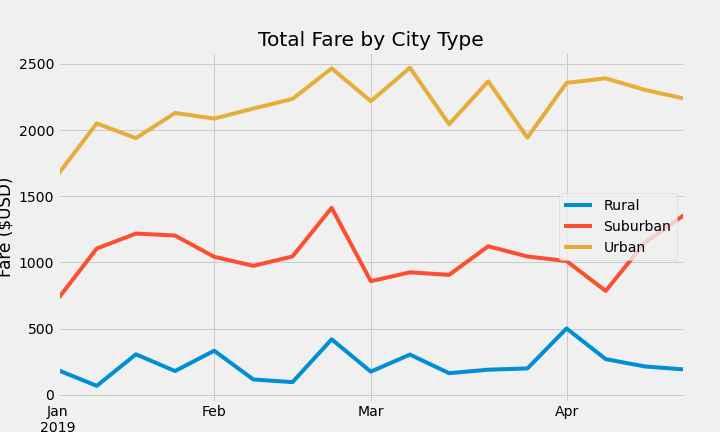
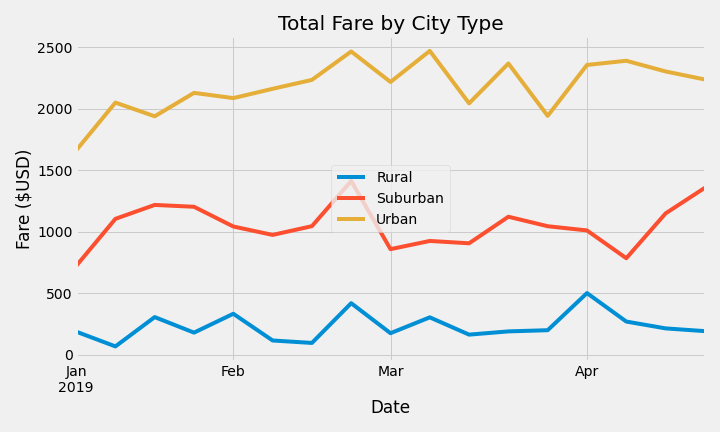
updated readme and images changed size

diff --git a/README.md b/README.md
@@ -1,15 +1,17 @@
 # PyBer_Analysis
 
 ## Project Overview
-The project was to examine PyBer ride-sahring data and break the analysis down by city type.  A Pandas DataFrame was created and then graphs utilizing Matplotlib functionality were employed to provide displays of the differences of the ride sharing data by city type and week fares.  Insights into these trends are then used to provide guidance for decisions by PyBer leadership.
+The purpose of this project is to examine PyBer ride-sharing data and break the analysis down by city type.  A Pandas DataFrame was created and then a summary line chart utilizing Matplotlib functionality is employed to provide displays of the differences of the ride sharing data by city type and week fares.  Insights into these trends are then used to provide guidance for decisions by PyBer leadership.
 
 ### Results
+
+#### Fare summary by city type
+PyBer weekly fares vary significantly depending on whether the city type is rural, suburban, or urban.  As is diplayed in figure 1, urban cities **(gold line)** generate more total weekly fares than suburban and rural combined.  Rural cities generate the least amount of fare on a weekly basis rarely exceeding $500.  Suburban cities tend to be about double the rural cities in weekly fares, but approximately half of the urban cites.
 Figure 1 ![PyBer Fare Summary](analysis/PyBer_fare_summary.png)
-
+#### Ride and summary table
+If we examine the table in figure 2, we notice that the average fare for the rural cities is the largest, while the smallest average fare per ride is in the urban cities.  This makes sense considering the distance traveled in urban centers is often less as the urban cities are often most dense with destinations more closely spaced.  Again suburban cities fall in the middle.  Of note is also the total drivers vs total rides.  There are more drivers in the urban cities than total rides.  There appears to be not enough demand on the drivers in the urban cities as there are only 1,625 total rides vs 2,405 total drivers.  In comparison, rural and suburban cities have total rides exceeding the number of drivers.  This is also reflected in the average fare per driver column and the end of the table in figure 2. Again, the total fares in the urban cities exceeds the sum of both the suburban and rural cities combined.  
 Figure 2 ![PyBer Summary Data Table](analysis/PyBer_summary_table.png)
-
-
-
 ### Summary
+
 
 
